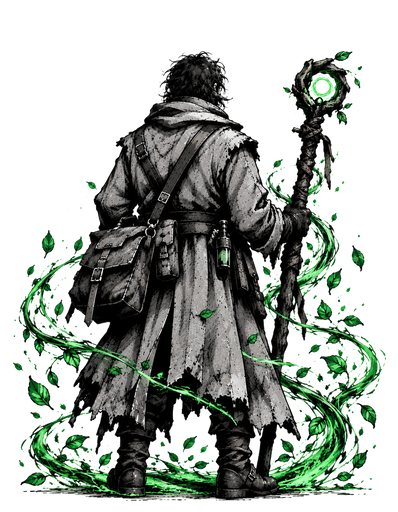
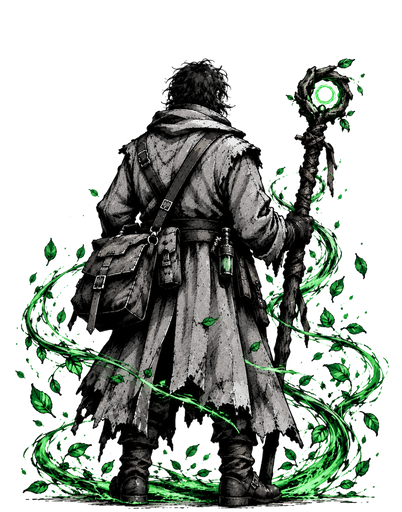
High-res fallen poses and Pythio's low-mana and hurt poses
Fallen poses for the rogue, adventurer and Baron (512 wide); the rogue and
Baron didn't have one before, so they now lie down when they die. Pythio's
low_mana (kneeling, staff raised) and hurt (head bowed, ring dark) poses.
All six Pythio poses are re-cut on one canvas with the feet on one line, so
he never shifts between poses. cutout_single.py can size by width (w512).
art-assets.md and art.md updated.

Part of #34

Claude-Session: https://claude.ai/code/session_01BFmxdffuM8zTEtWCti1mUq

diff --git a/tools/art/cutout_white_bg.py b/tools/art/cutout_white_bg.py
@@ -6,9 +6,20 @@ import sys, numpy as np
 from PIL import Image, ImageFilter
 from scipy import ndimage
 A="/mnt/user-data/attachments/509c1316-aafa-55b0-a4af-a6fea7c3d593/"
-src={"idle":"0dedf9f1","cast_shield":"cc676e6a","cast_heal":"4fb1b94c","cast_hot":"7ba4ad21"}
+src={"idle":"0dedf9f1","cast_shield":"cc676e6a","cast_heal":"4fb1b94c","cast_hot":"7ba4ad21",
+     "low_mana":"47c4c061","hurt":"e523ab84"}
 out=sys.argv[1]
-imgs={k:np.array(Image.open(A+v+"-image.png").convert("RGB"))[:1428,:1101] for k,v in src.items()}
+CANVAS=(1101,1428); FEET_Y=1393   # every pose is fitted to this canvas with the feet on this line
+
+def load(path):
+    """Scale to the canvas width and shift so the lowest ink (the feet) sits on FEET_Y."""
+    im=Image.open(path).convert("RGB")
+    im=im.resize((CANVAS[0],round(im.height*CANVAS[0]/im.width)),Image.LANCZOS)
+    ink=np.where(np.array(im).astype(int).max(axis=2)<90)[0].max()
+    out=Image.new("RGB",CANVAS,(255,255,255)); out.paste(im,(0,FEET_Y-ink))
+    return np.array(out)
+
+imgs={k:load(A+v+"-image.png") for k,v in src.items()}
 # one shared crop window for every pose, so Pythio stands in the same spot in all of them
 x0=y0=10**9; x1=y1=0
 for a in imgs.values():
@@ -34,7 +45,7 @@ for k,a in imgs.items():
     rgba=rgba.crop((x0,y0,x1+1,y1+1))
     rgba=rgba.resize((round(rgba.width*512/rgba.height),512),Image.LANCZOS)
     rgba.save(f"{out}/pythio_{k}.png")
-sheet=Image.new("RGBA",(4*rgba.width+50,532),(35,22,24,255))
-for i,k in enumerate(["idle","cast_heal","cast_hot","cast_shield"]):
+sheet=Image.new("RGBA",(6*rgba.width+70,532),(35,22,24,255))
+for i,k in enumerate(["idle","cast_heal","cast_hot","cast_shield","low_mana","hurt"]):
     sheet.alpha_composite(Image.open(f"{out}/pythio_{k}.png"),(10+i*(rgba.width+10),10))
 sheet.save(f"{out}/sheet.png"); print(rgba.size)

diff --git a/tools/art/cutout_single.py b/tools/art/cutout_single.py
@@ -3,13 +3,14 @@
 # to the figure, scaled to a target height. For single images (fighters, the Baron).
 # For a character with several poses that must line up, use cutout_white_bg.py instead.
 # Usage: python3 tools/art/cutout_single.py <input.png> <output.png> [height, default 512]
+#        (size "w512" = 512 wide instead, for landscape art like fallen poses)
 import sys
 import numpy as np
 from PIL import Image, ImageFilter
 from scipy import ndimage
 
 src, dst = sys.argv[1], sys.argv[2]
-height = int(sys.argv[3]) if len(sys.argv) > 3 else 512
+size = sys.argv[3] if len(sys.argv) > 3 else "512"
 a = np.array(Image.open(src).convert("RGB"))
 whiteness = a.astype(int).min(axis=2)
 white = whiteness >= 225
@@ -26,6 +27,11 @@ img.putalpha(Image.fromarray(alpha.astype("uint8")).filter(ImageFilter.GaussianB
 x0, y0, x1, y1 = img.getbbox()
 pad = 6
 img = img.crop((max(0, x0 - pad), max(0, y0 - pad), min(a.shape[1], x1 + pad), min(a.shape[0], y1 + pad)))
-img = img.resize((round(img.width * height / img.height), height), Image.LANCZOS)
+if size.startswith("w"):
+    width = int(size[1:])
+    img = img.resize((width, round(img.height * width / img.width)), Image.LANCZOS)
+else:
+    height = int(size)
+    img = img.resize((round(img.width * height / img.height), height), Image.LANCZOS)
 img.save(dst)
 print(dst, img.size)

diff --git a/docs/art-assets.md b/docs/art-assets.md
@@ -29,8 +29,8 @@ after each one.
 | `characters/pythio/pythio_cast_heal.png` | Casting a spell that isn't a Shield or Heal-over-Time spell (Heal, Flash Heal, Divine Protection, Time Stop…), and while bandaging. | High-res | 512 tall |
 | `characters/pythio/pythio_cast_hot.png` | Casting a spell with the **Heal-over-Time** tag (Renew, Healing Plague, Mend Wounds, Tranquility). | High-res | 512 tall |
 | `characters/pythio/pythio_cast_shield.png` | Casting a spell with the **Shield** tag (Shield, Guardian Ward, Aegis of Light). | High-res | 512 tall |
-| `characters/pythio/pythio_low_mana.png` | For 2 seconds the first time your mana drops below 20% in a round. | Stand-in | 512 tall |
-| `characters/pythio/pythio_hurt.png` | When a fighter dies (the end of the run). | Stand-in | 512 tall |
+| `characters/pythio/pythio_low_mana.png` | For 2 seconds the first time your mana drops below 20% in a round. Kneeling, staff raised. | High-res | 512 tall |
+| `characters/pythio/pythio_hurt.png` | When a fighter dies (the end of the run). Head bowed, staff ring dark. | High-res | 512 tall |
 | `characters/pythio/pythio_victory.png` | Winning a fixed-length run. **Never shown in endless mode** (there's no win). | Stand-in (effectively spare) | 512 tall |
 
 High-res poses must share one framing (same canvas, camera and foot position) so he
@@ -49,17 +49,19 @@ character; `_2`–`_5` are spare variants from the concept sheet.
 | `characters/mercenary/mercenary_1.png` | **Desperate Mercenary**, every medium-armour fighter. | High-res | 512 tall |
 | `characters/mercenary/mercenary_2.png` … `_5.png` | Not shown. | Spare | — |
 | `characters/rogue/rogue_1.png` | **Cursed Rogue**, half of the light-armour fighters (purple wisps). | High-res | 512 tall |
+| `characters/rogue/rogue_down.png` | A Cursed Rogue who has **died** (lying face down, daggers dropped). | High-res | 512 wide |
 | `characters/rogue/rogue_2.png` … `_5.png` | Not shown. | Spare | — |
 | `characters/adventurer/adventurer_1.png` | **Injured Adventurer**, the other half of the light-armour fighters. | High-res | 512 tall |
 | `characters/adventurer/adventurer_2.png` … `_5.png` | Not shown. | Spare | — |
-| `characters/adventurer/adventurer_down.png` | An Injured Adventurer who has **died** (lying down). Other characters have no fallen pose yet, so they keep standing when they die. | Stand-in | 512 wide |
+| `characters/adventurer/adventurer_down.png` | An Injured Adventurer who has **died** (lying down). | High-res | 512 wide |
 | `characters/baron/baron_1.png` | **The Crimson Baron**, every 5th round. | High-res | 768 tall |
 | `characters/baron/baron_2.png` … `_4.png` | Not shown. | Spare | — |
+| `characters/baron/baron_down.png` | The Crimson Baron when he **dies** (fallen, cape spread, sword dropped). | High-res | 512 wide |
 | `characters/baron/baron_5.png` | Bloodied Baron. Not shown yet (could be his phase 3 look). | Spare | 768 tall |
 
-**Missing, worth adding with the fighter art:** fallen poses for the knight, mercenary,
-rogue and Baron (`<character>_down.png`). The game already looks for them; it just finds
-only the adventurer's.
+**Still missing:** fallen poses for the **knight** and the **mercenary**
+(`knight_down.png`, `mercenary_down.png`). The game already looks for them; until they
+exist, those two stay standing when they die.
 
 ## Health, shield and mana bars
 
@@ -166,10 +168,10 @@ Font choices may change in Phase H (#61).
 
 What changes the screen most, in order:
 
-Done: Pythio's idle and casting poses, the four fighters and the Baron (2026-10-24).
+Done (2026-10-24): all of Pythio's poses in use, the four fighters, the Baron, and fallen
+poses for the rogue, adventurer and Baron.
 
-1. **Fallen poses** for all four fighters and the Baron (`<character>_down.png`): a death now swaps a high-res fighter for a stand-in (adventurer) or leaves them standing (everyone else).
-2. **Pythio's `low_mana` and `hurt` poses**, so his high-res set is complete.
-3. **The health bar frame and fill**: there's one on every fighter.
-4. **Distinct spell icons**: many spells share an icon today.
-5. **The bloodied Baron** (`baron_5`), for a phase-3 look later.
+1. **Fallen poses for the knight and mercenary** (`knight_down.png`, `mercenary_down.png`).
+2. **The health bar frame and fill**: there's one on every fighter.
+3. **Distinct spell icons**: many spells share an icon today.
+4. **The bloodied Baron** (`baron_5`), for a phase-3 look later.

diff --git a/docs/art.md b/docs/art.md
@@ -1,8 +1,8 @@
 # Pythio art: stand-ins, file names, and the high-res prompt pack
 
 ## Where the art comes from today
-**High-res so far (2026-10-24):** Pythio's idle and three casting poses, the four fighters
-and the Crimson Baron, made by the owner in ChatGPT from the prompt pack below. Pythio's
+**High-res so far (2026-10-24):** all of Pythio's poses in use (idle, three casting, low mana,
+hurt), the four fighters, the Crimson Baron, and fallen poses for the rogue, adventurer and Baron, made by the owner in ChatGPT from the prompt pack below. Pythio's
 poses were cut out with `tools/art/cutout_white_bg.py` (one shared crop so he stands in the
 same spot in every pose); single images with `tools/art/cutout_single.py`. Everything else
 is still a stand-in; `docs/art-assets.md` has the full list and what to make next.
